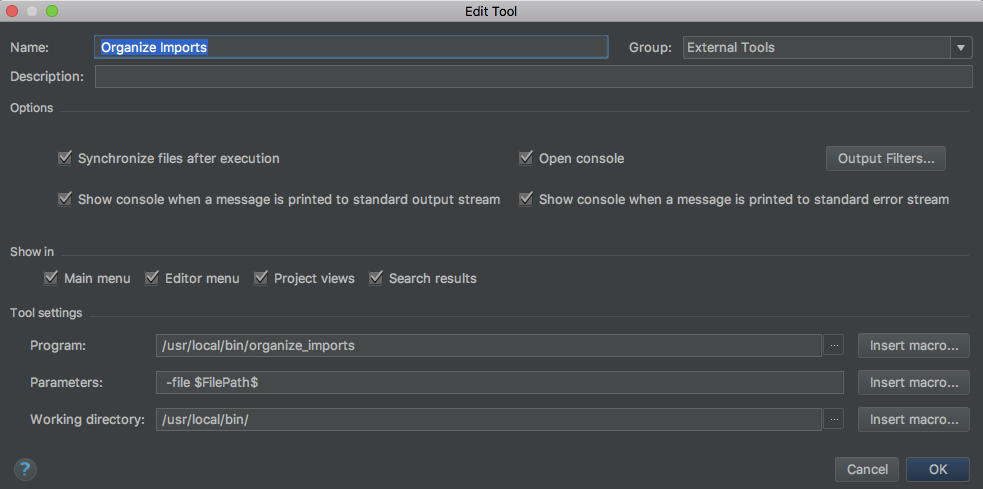
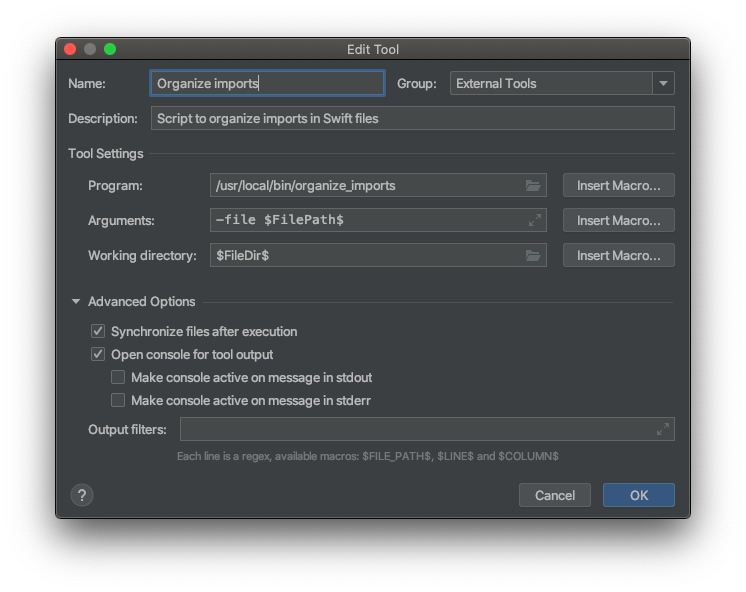
Update README

diff --git a/README.md b/README.md
@@ -8,14 +8,11 @@ It's created with [Marathon](https://github.com/JohnSundell/Marathon) command li
 
 ## Installation
 
-First of all install [Marathon](https://github.com/JohnSundell/Marathon). Pay attention to Marathon [requirements](https://github.com/JohnSundell/Marathon#requirements).<br>
-You can run script with `marathon run` command, but I highly recommend installation to use it everywhere.
-
-To install script as binary try:<br>
-`$ marathon install organize_imports.swift`<br>
-
-or without repo cloning:<br>
-`$ marathon install swziy/OrganizeImports`<br>
+1. Clone repository and enter main folder
+2. Fallow this steps:<br>
+  `$ swift build -c release`<br>
+  `$ cd .build/release`<br>
+  `$ cp -f OrganizeImports /usr/local/bin/organize_imports`<br>
 
 ## Usage
 
@@ -30,16 +27,19 @@ or on a single file:<br>
 If you're using AppCode, there is an option to integrate script as an external tool and run it with a shortcut directly from IDE. Check configuration screens below. 
 
 1. Find `External Tools` section in AppCode and click `+` button.<br>
-<img src="images/1.png" width="814" height="470" alt="1"/>
+<img src="images/1.png" width="1012" height="834" alt="1"/>
 
 2. Copy this configuration.<br>
 Program: `/usr/local/bin/organize_imports`<br>
 Parameters: `-file $FilePath$`<br>
-Working directory: `/usr/local/bin/`<br>
-<img src="images/2.png" width="814" height="405" alt="2"/>
+Working directory: `$FileDir`<br>
+<img src="images/2.png" width="746" height="592" alt="2"/>
 
 3. Assign shortcut of your choice.<br>
-<img src="images/3.png" width="814" height="470" alt="3"/>  
+<img src="images/3.png" width="1012" height="834" alt="3"/>
+
+4. Try sorting imports with shortcut.<br>
+<img src="images/4.png" width="1012" height="835" alt="4"/>
 
 ### License
 
